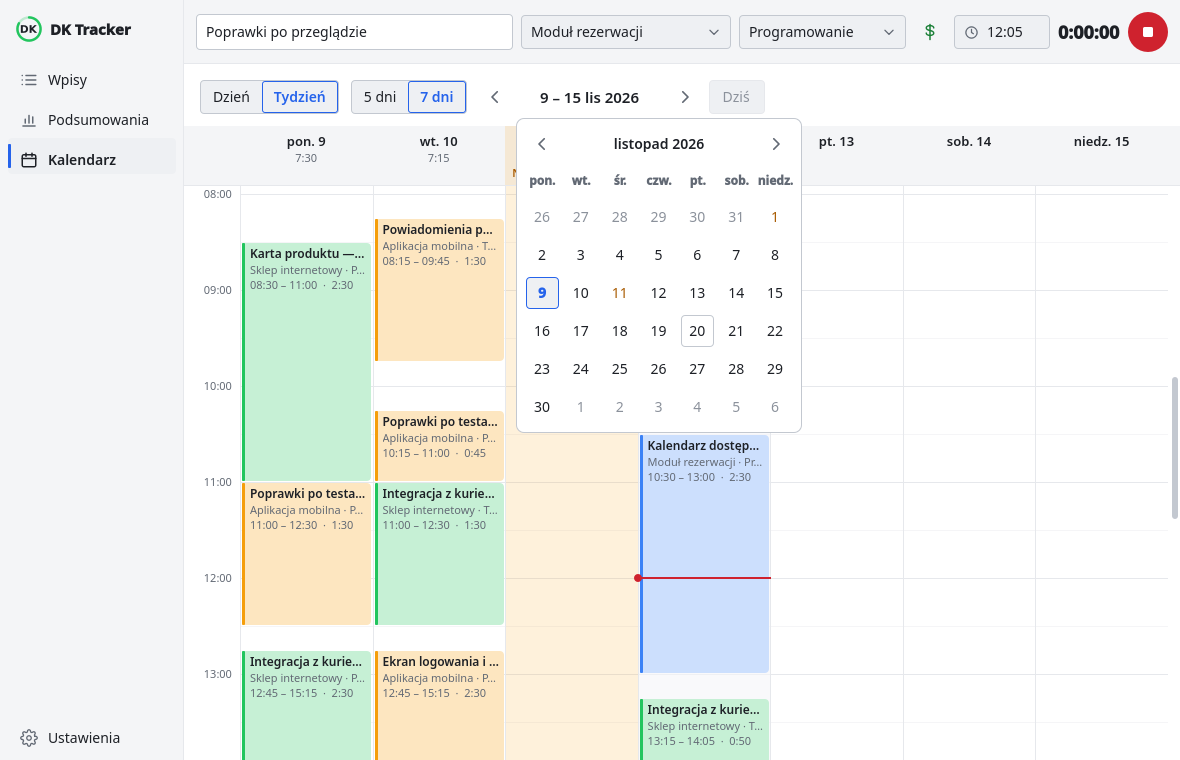
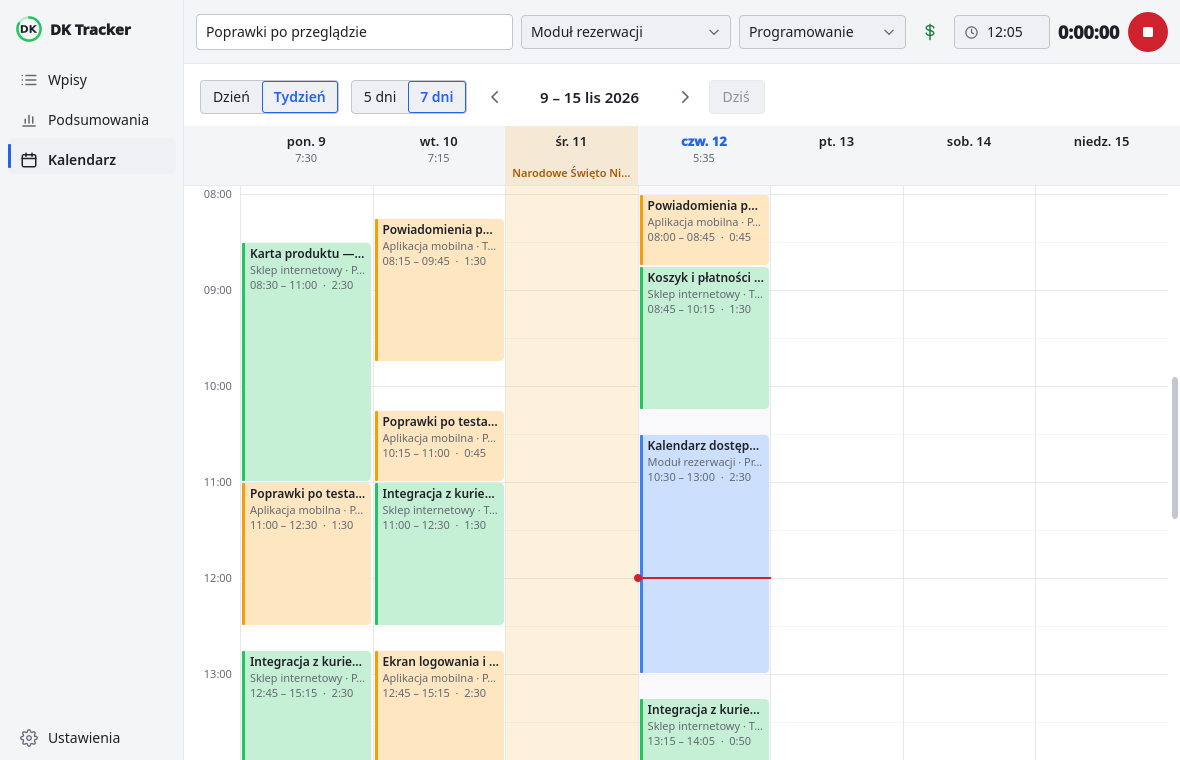
todo: 0088 zrzut kalendarza bez otwartego kalendarzyka

Changed region(s): [[0.4271, 0.1513, 0.6712, 0.575]]

diff --git a/TODO/W-TRAKCIE/0088-swieta-panstwowe/prototyp/zrzuty-swieta.py b/TODO/W-TRAKCIE/0088-swieta-panstwowe/prototyp/zrzuty-swieta.py
@@ -118,6 +118,11 @@ def main() -> None:
         bridge.show_page("summary")
         shot(f"podsumowania-swieta-{theme}.png")
 
+    # The date picker last: a QML popup stays open and would cover the next theme's calendar.
+    for theme, palette in (("ciemny", MAIN_DARK), ("jasny", MAIN_LIGHT)):
+        bridge.set_palette(palette)
+        summary = bridge.summary
+        bridge.show_page("summary")
         # Zakres: kalendarzyk wyboru daty z zaznaczonym świętem (11 listopada).
         summary.setPeriod("range")
         summary.set_entries(
